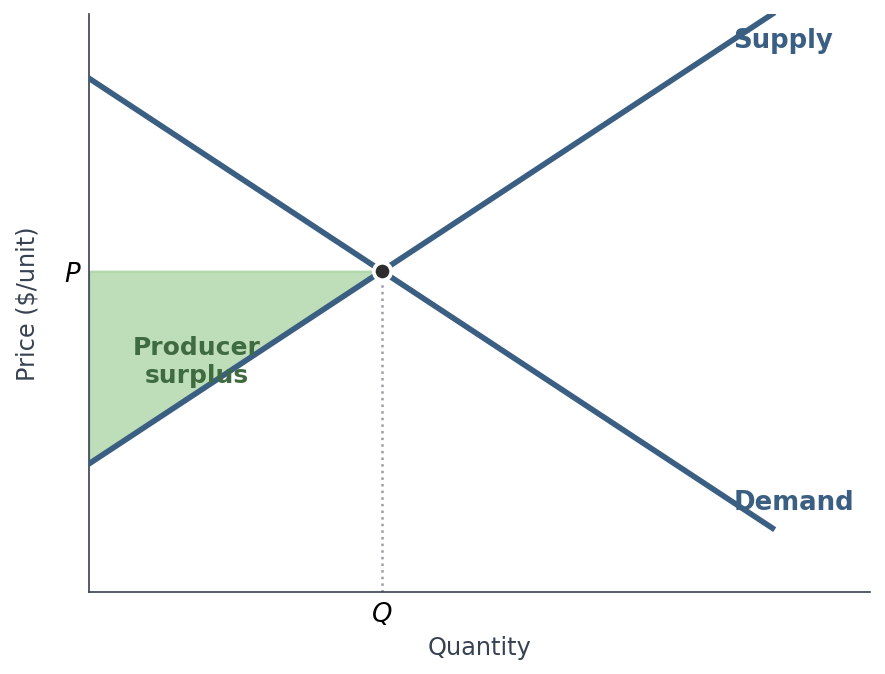
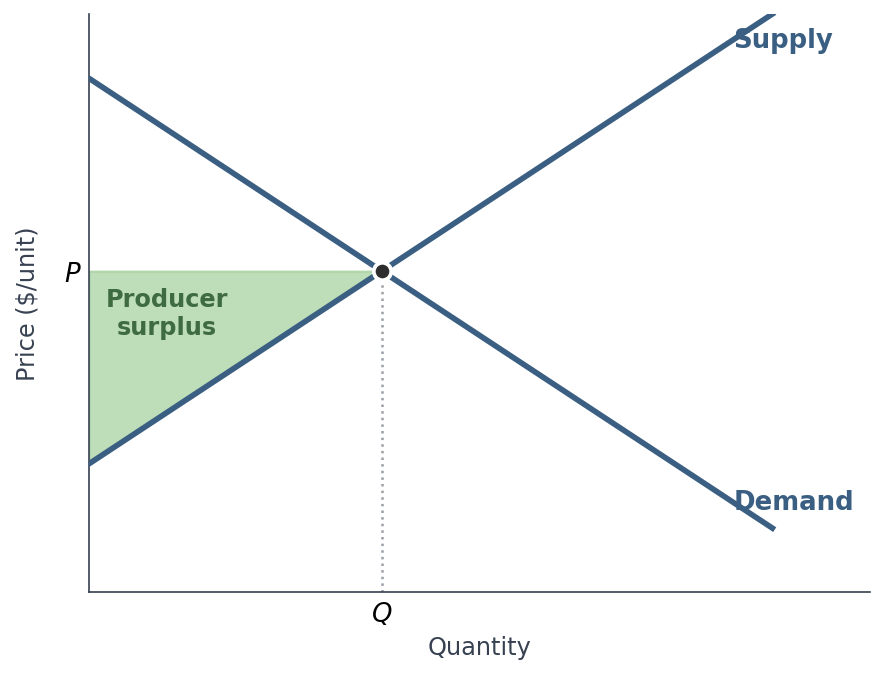
ch10 (2316): cleaner firm-PS slide layout (balanced definition + anchored PS=TR-VC box, drop duplicated panel caption, larger figure); reposition industry-PS label clear of the supply curve

Changed region(s): [[0.122, 0.405, 0.3051, 0.592]]

diff --git a/econ2316/ch10-perfect-competition/index.html b/econ2316/ch10-perfect-competition/index.html
@@ -1120,20 +1120,17 @@
 <!-- ===== NEW (1116 §8 producer surplus) — PS for a competitive firm: PS = TR - VC ===== -->
 <section id="firm-ps">
   <h2><i class="fa-solid fa-chart-area" style="color: var(--accent-color);"></i> Producer Surplus for a Competitive Firm</h2>
-  <div style="display: grid; grid-template-columns: 1fr 1fr; gap: 20px; align-items: center; margin-bottom: 8px;">
+  <div style="display: grid; grid-template-columns: 1.25fr 0.92fr; gap: 24px; align-items: center; margin-bottom: 6px;">
     <div>
-      <p style="font-size: 12.5pt; line-height: 1.5; margin: 0 0 6px;">Marginal cost slopes upward, so in most circumstances some output is sold at a price <strong>above</strong> its cost of production.</p>
-      <p style="font-size: 12.5pt; line-height: 1.5; margin: 0;"><strong>Producer surplus</strong> is the sum of the gaps between <strong>price</strong> and <strong>marginal cost</strong> over every unit of output.</p>
+      <p style="font-size: 12.5pt; line-height: 1.5; margin: 0 0 8px;">Marginal cost slopes upward, so some output is sold at a price <strong>above</strong> its cost of production. <strong>Producer surplus</strong> is the sum of the gaps between <strong>price</strong> and <strong>marginal cost</strong> over every unit produced.</p>
+      <p style="font-size: 11.5pt; line-height: 1.45; margin: 0; color: var(--muted-color);">Two equivalent views, shown below: sum the per-unit \(P-MC\) markups <strong>(a)</strong>, or read the same area as the \((P-AVC^*)\,Q^*\) rectangle <strong>(b)</strong>.</p>
     </div>
-    <div>
-      <div class="key-result" style="background: #ecfdf5; border-left-color: var(--success-color); margin: 0;">
-        <p style="margin: 0; text-align: center; font-size: 17pt;">\(PS = TR - VC\)</p>
-      </div>
-      <p style="font-size: 11.5pt; line-height: 1.45; margin: 8px 0 0; color: var(--muted-color);">Panel (a) adds up the per-unit \(P-MC\) markups; panel (b) shows the identical area as the rectangle \((P-AVC^*)\,Q^*\).</p>
+    <div class="key-result" style="background: #ecfdf5; border-left-color: var(--success-color); margin: 0;">
+      <p style="margin: 0; text-align: center; font-size: 19pt;">\(PS = TR - VC\)</p>
     </div>
   </div>
   <div style="text-align: center;">
-    <img alt="Two panels for a competitive firm: panel a shades producer surplus as the area between the price line and the marginal cost curve up to Q*; panel b shades the same magnitude as the rectangle (price minus average variable cost) times Q*, equal to total revenue minus variable cost" class="figure" src="figures/fig-firm-ps.png" style="max-height: 326px; margin: 0 auto;">
+    <img alt="Two panels for a competitive firm: panel a shades producer surplus as the area between the price line and the marginal cost curve up to Q*; panel b shades the same magnitude as the rectangle (price minus average variable cost) times Q*, equal to total revenue minus variable cost" class="figure" src="figures/fig-firm-ps.png" style="max-height: 344px; margin: 0 auto;">
     <p style="font-size: 11pt; color: var(--muted-color); margin: 6px 0 0;">Producer surplus two ways &mdash; the area between \(P\) and \(MC\) equals the \((P-AVC^*)\,Q^*\) rectangle \(=TR-VC\).</p>
   </div>
   <aside class="notes">Defines producer surplus at the firm level &mdash; the building block the welfare theorem (and Ch 2's surplus integrals) rest on. Two equivalent readings: (a) sum the per-unit markups \(P-MC\) over all units produced &mdash; the area between the price line and the rising MC curve; (b) the same magnitude is total revenue minus variable cost, the rectangle \((P-AVC^*)Q^*\). They are equal because variable cost is exactly the area under MC. Note PS uses VARIABLE cost only &mdash; fixed cost never enters, which is precisely why PS differs from profit (next slide).</aside>
